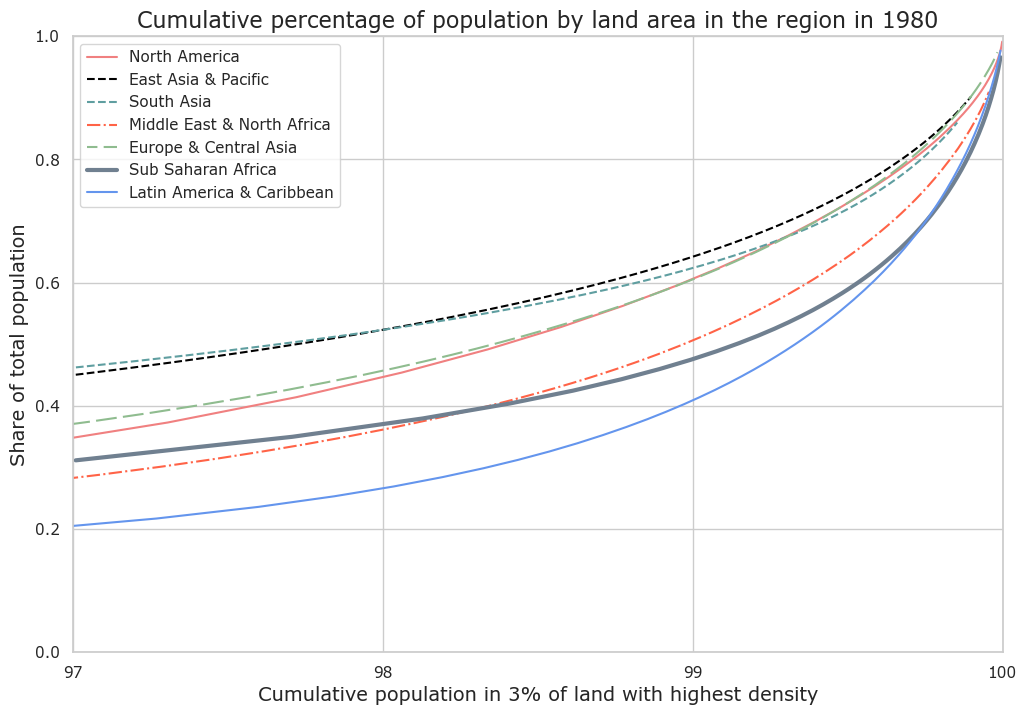
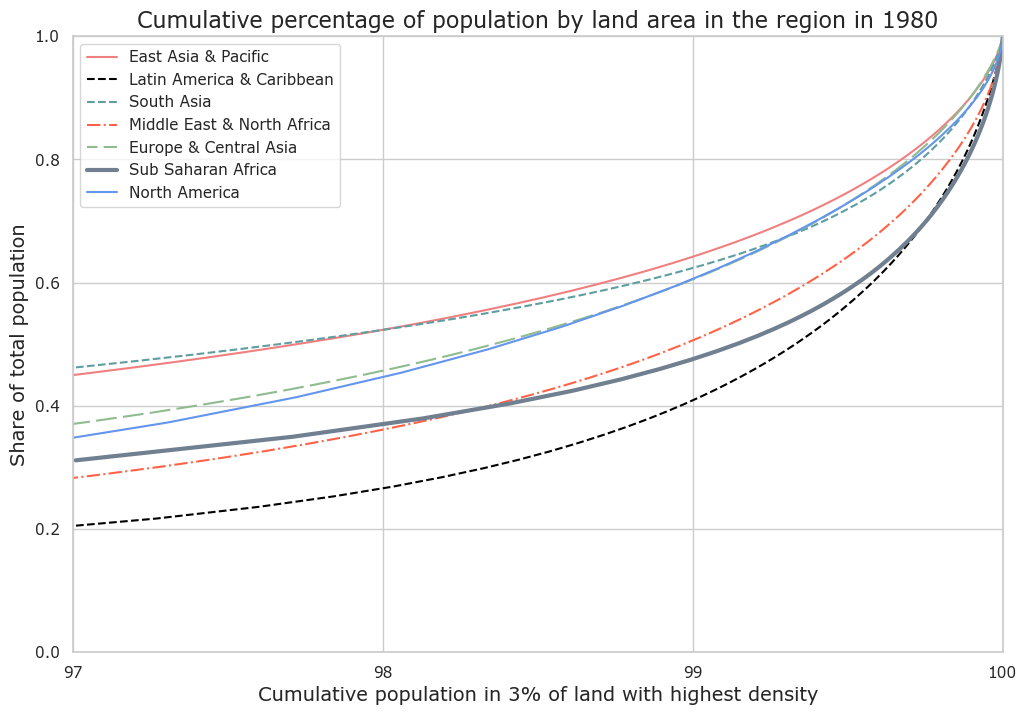
Figure edits

diff --git a/reproduction_plots.py b/reproduction_plots.py
@@ -73,7 +73,7 @@ def process_and_merge_csv_files(input_folder, bin_col='Bin', pop_sum_col='Popula
             df['CumulativeLandShare'] = df['CumulativeCells'] / total_cells
             
             # Limit to the first 200 rows
-            df = df.head(200)
+            #df = df.head(200)
             
             # Select and rename columns for land share
             landshare_df = df[[bin_col, 'CumulativeLandShare']].rename(columns={
@@ -111,7 +111,7 @@ def plot1a(data, plot_title, output_file=None, x_value=19000):
         output_file (str, optional): Path to save the output plot. If None, displays the plot.
     """
     
-    data = data.head(200)
+    #data = data.head(200)
     # Define line styles and grey-to-black color gradient
     line_styles = ['solid', 'dashed', 'dashed', 'dashdot', (5, (10, 3)), 'solid', 'solid']  # Add more if needed
     colors = ['lightcoral', 'black', 'cadetblue', 'tomato', 'darkseagreen', 'goldenrod', 'slategrey']
